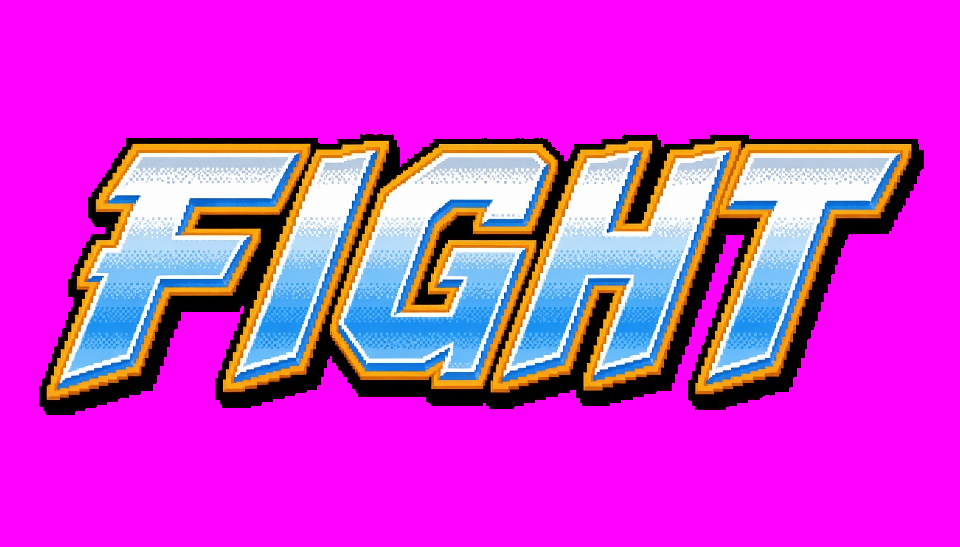
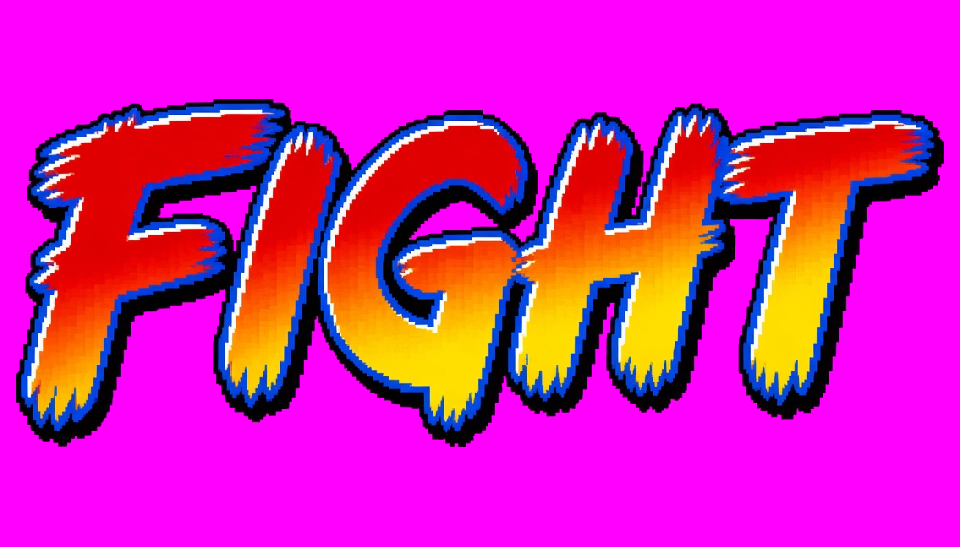
ui

diff --git a/app/src/main/java/com/cc/railshot/ui/GameView.kt b/app/src/main/java/com/cc/railshot/ui/GameView.kt
@@ -657,34 +657,27 @@ class GameView(context: Context) : SurfaceView(context), SurfaceHolder.Callback,
       else blitFit(canvas, bmp, box.left, box.top, box.width(), box.height())
     }
     val dp = sh / 360f
-    val gap = 5f * dp
+    val wordGap = 4f * dp
     val margin = 12f * dp
     val rail = keyedCropped(UiArt.WORD_RAIL)
     val shot = keyedCropped(UiArt.WORD_SHOT)
-    val rivet = titleSlots[2]
-    val hex = titleSlots[3]
-    // AABB inner edges are Rivet's axe / Hex's shield; the V opening is the torsos.
-    val leftClear = rivet.left + rivet.width() * 0.55f + margin
-    val rightClear = hex.left + hex.width() * 0.38f - margin
-    val cx = (leftClear + rightClear) / 2f
+    val ash = titleSlots[0]
+    val maru = titleSlots[5]
+    val leftClear = ash.right + margin
+    val rightClear = maru.left - margin
     val availW = (rightClear - leftClear).coerceAtLeast(1f)
-    val aspect = maxOf(rail.width / rail.height.toFloat(), shot.width / shot.height.toFloat())
-    val pocketH = (titleSlots[2].top + titleSlots[2].height() * 0.18f - titleSlots[0].top).coerceAtLeast(1f)
-    var wordH = availW / aspect
-    val stack = wordH * 2f + gap
-    if (stack > pocketH) wordH = ((pocketH - gap) / 2f).coerceAtLeast(1f)
-    val railW = wordH * (rail.width / rail.height.toFloat())
-    val shotW = wordH * (shot.width / shot.height.toFloat())
-    val top = titleSlots[0].top
-    blitFit(canvas, rail, cx - railW / 2f, top, railW, wordH)
-    blitFit(
-      canvas,
-      shot,
-      cx - shotW / 2f + 3f * dp,
-      top + wordH + gap - 1f * dp,
-      shotW,
-      wordH,
-    )
+    val railAspect = rail.width / rail.height.toFloat()
+    val shotAspect = shot.width / shot.height.toFloat()
+    var wordH = ((availW - wordGap) / (railAspect + shotAspect)).coerceAtLeast(1f)
+    val capH = sh * 0.16f
+    if (wordH > capH) wordH = capH
+    val railW = wordH * railAspect
+    val shotW = wordH * shotAspect
+    val pairW = railW + wordGap + shotW
+    val x = (leftClear + rightClear - pairW) / 2f + 10f * dp
+    val top = ash.top
+    blitFit(canvas, rail, x, top, railW, wordH)
+    blitFit(canvas, shot, x + railW + wordGap, top, shotW, wordH)
     layoutTitleHits(sw, sh)
     val size = sh * 0.042f
     val modeY = sh - sh * 0.105f
@@ -831,12 +824,12 @@ class GameView(context: Context) : SurfaceView(context), SurfaceHolder.Callback,
     blitFill(canvas, opaque(UiArt.SELECT_BG), 0f, 0f, sw, sh)
     val cx = sw * 0.5f
     val dip = cpuLevel.table
-    drawGoldLine(canvas, "TOP SCORES", cx, sh * 0.09f, sh * 0.055f)
+    drawGoldLine(canvas, "TOP SCORES", cx, sh * 0.105f, sh * 0.038f)
     val diff = if (cpuLevel == CpuLevel.EASY) "EASY" else "HARD"
-    drawGoldLine(canvas, diff, cx, sh * 0.148f, sh * 0.036f, CREAM)
-    val rowTop = sh * 0.22f
-    val rowStep = sh * 0.068f
-    val size = sh * 0.036f
+    drawGoldLine(canvas, diff, cx, sh * 0.175f, sh * 0.026f, CREAM)
+    val rowTop = sh * 0.25f
+    val rowStep = sh * 0.070f
+    val size = sh * 0.028f
     var i = 0
     while (i < HighScoreManager.SLOT_COUNT) {
       rankLine.setLength(0)
@@ -866,7 +859,7 @@ class GameView(context: Context) : SurfaceView(context), SurfaceHolder.Callback,
       i++
     }
     if ((System.currentTimeMillis() / 600L) % 2L == 0L) {
-      drawGoldLine(canvas, "1P START", cx, sh * 0.94f, sh * 0.038f)
+      drawGoldLine(canvas, "1P START", cx, sh * 0.95f, sh * 0.032f)
     }
   }
 
@@ -1003,24 +996,35 @@ class GameView(context: Context) : SurfaceView(context), SurfaceHolder.Callback,
     val colT = 14f * dp
     val colW = sw * 0.50f - colL - 12f * dp
     val padH = 8f * dp
-    val padV = 8f * dp
-    val gapT = 6f * dp
+    val padV = 18f * dp
+    val n = Fighter.selectOrder.size
     val rowWTiles = sw - padH * 2f
-    val tile = (rowWTiles - gapT * (Fighter.selectOrder.size - 1)) / Fighter.selectOrder.size
+    val tile = (rowWTiles - 6f * dp * (n - 1)) / n * 0.9f * 1.05f
+    val frameS = (tile * 12f / 1080f).coerceAtLeast(0.5f)
+    val gapT = 6f * frameS + 5f * dp
+    val rowW = n * tile + (n - 1) * gapT
+    val rowL = padH + (rowWTiles - rowW) * 0.5f
     val rowTop = sh - padV - tile
     val colH = (rowTop - colT - 10f * dp).coerceAtLeast(1f)
-    val selectBmp = keyed(UiArt.PLAYER_SELECT)
+    val wordSelect = keyedCropped(UiArt.WORD_SELECT)
+    val wordFighter = keyedCropped(UiArt.WORD_FIGHTER)
+    val wordGap = 2f * dp
     val nameH = 28f * dp
     val flavorH = 15f * dp
     val ctrlH = sh * 0.07f
     val minGap = 10f * dp
-    val slots = 5f
+    val slots = 6f
     val bannerCap = (colH - nameH - flavorH - ctrlH - minGap * slots).coerceAtLeast(24f * dp)
-    val bannerH = min(colW * (selectBmp.height / selectBmp.width.toFloat()), bannerCap)
+    val eachCap = ((bannerCap - wordGap) / 2f).coerceAtLeast(12f * dp)
+    val selectH = min(colW * (wordSelect.height / wordSelect.width.toFloat()), eachCap)
+    val fighterH = min(colW * (wordFighter.height / wordFighter.width.toFloat()), eachCap)
+    val bannerH = selectH + wordGap + fighterH
     val gap = ((colH - bannerH - nameH - flavorH - ctrlH) / slots).coerceAtLeast(0f)
     var y = colT + gap
-    blitFit(canvas, selectBmp, colL, y, colW, bannerH)
-    y += bannerH + gap
+    blitFit(canvas, wordSelect, colL, y, colW, selectH)
+    y += selectH + wordGap
+    blitFit(canvas, wordFighter, colL, y, colW, fighterH)
+    y += fighterH + gap
     highlighted.art().nameSelect?.let { path ->
       val nw = colW * 0.55f
       blitFit(canvas, keyed(path), colL + (colW - nw) / 2f, y, nw, nameH)
@@ -1044,7 +1048,7 @@ class GameView(context: Context) : SurfaceView(context), SurfaceHolder.Callback,
     placeMenuHit(rightArrow, "R", rightCx, labelY, size)
 
     Fighter.selectOrder.forEachIndexed { i, fighter ->
-      val l = padH + i * (tile + gapT)
+      val l = rowL + i * (tile + gapT)
       faceTiles[i].set(l, rowTop, l + tile, rowTop + tile)
       drawFaceTile(canvas, fighter, i, faceTiles[i], dp)
     }
@@ -1682,20 +1686,29 @@ class GameView(context: Context) : SurfaceView(context), SurfaceHolder.Callback,
     val colT = 14f * dp
     val colW = sw * 0.50f - colL - 12f * dp
     val padH = 8f * dp
-    val padV = 8f * dp
-    val gapT = 6f * dp
+    val padV = 18f * dp
+    val n = Fighter.selectOrder.size
     val rowWTiles = sw - padH * 2f
-    val tile = (rowWTiles - gapT * (Fighter.selectOrder.size - 1)) / Fighter.selectOrder.size
+    val tile = (rowWTiles - 6f * dp * (n - 1)) / n * 0.9f * 1.05f
+    val frameS = (tile * 12f / 1080f).coerceAtLeast(0.5f)
+    val gapT = 6f * frameS + 5f * dp
+    val rowW = n * tile + (n - 1) * gapT
+    val rowL = padH + (rowWTiles - rowW) * 0.5f
     val rowTop = sh - padV - tile
     val colH = (rowTop - colT - 10f * dp).coerceAtLeast(1f)
-    val selectBmp = keyed(UiArt.PLAYER_SELECT)
+    val wordSelect = keyedCropped(UiArt.WORD_SELECT)
+    val wordFighter = keyedCropped(UiArt.WORD_FIGHTER)
+    val wordGap = 2f * dp
     val nameH = 28f * dp
     val flavorH = 15f * dp
     val ctrlH = sh * 0.07f
     val minGap = 10f * dp
-    val slots = 5f
+    val slots = 6f
     val bannerCap = (colH - nameH - flavorH - ctrlH - minGap * slots).coerceAtLeast(24f * dp)
-    val bannerH = min(colW * (selectBmp.height / selectBmp.width.toFloat()), bannerCap)
+    val eachCap = ((bannerCap - wordGap) / 2f).coerceAtLeast(12f * dp)
+    val selectH = min(colW * (wordSelect.height / wordSelect.width.toFloat()), eachCap)
+    val fighterH = min(colW * (wordFighter.height / wordFighter.width.toFloat()), eachCap)
+    val bannerH = selectH + wordGap + fighterH
     val gap = ((colH - bannerH - nameH - flavorH - ctrlH) / slots).coerceAtLeast(0f)
     val y = colT + gap + bannerH + gap + nameH + gap + flavorH + gap + 6f * dp
     val size = sh * 0.038f
@@ -1707,7 +1720,7 @@ class GameView(context: Context) : SurfaceView(context), SurfaceHolder.Callback,
     placeMenuHit(selectBtn, "SELECT", selCx, labelY, size)
     placeMenuHit(rightArrow, "R", rightCx, labelY, size)
     Fighter.selectOrder.forEachIndexed { i, _ ->
-      val l = padH + i * (tile + gapT)
+      val l = rowL + i * (tile + gapT)
       faceTiles[i].set(l, rowTop, l + tile, rowTop + tile)
     }
   }

diff --git a/app/src/main/java/com/cc/railshot/ui/BitmapAssets.kt b/app/src/main/java/com/cc/railshot/ui/BitmapAssets.kt
@@ -71,7 +71,8 @@ internal fun chromaKeyMagenta(src: Bitmap, keyHoleBleed: Boolean = false): Bitma
 }
 
 internal fun isKeyMagenta(r: Int, g: Int, b: Int): Boolean {
-  return r >= 240 && b >= 240 && g <= 16
+  if (r >= 240 && b >= 240 && g <= 16) return true
+  return r >= 190 && b >= 180 && g <= 48 && kotlin.math.abs(r - b) <= 48
 }
 
 internal fun isCabinetHoleBleed(r: Int, g: Int, b: Int): Boolean {

diff --git a/app/src/main/java/com/cc/railshot/ui/FighterArt.kt b/app/src/main/java/com/cc/railshot/ui/FighterArt.kt
@@ -45,6 +45,8 @@ object UiArt {
   const val YOU_LOSE = "ui_you_lose.png"
   const val WORD_RAIL = "ui_rail.png"
   const val WORD_SHOT = "ui_shot.png"
+  const val WORD_SELECT = "ui_select.png"
+  const val WORD_FIGHTER = "ui_fighter.png"
   const val BADGE_1P = "ui_1p.png"
   const val BADGE_2P = "ui_2p.png"
   const val BTN_SELECT = "ui_btn_select.png"

diff --git a/playbook.md b/playbook.md
@@ -558,7 +558,7 @@ Arcade pixel word ROUND, fat brush letters, red-to-yellow horizontal gradient, t
 File: `art/ui_round.png`. Show at the start of each set with `art/ui_num_{1,2,3}.png` under it (~1.8s), then `FIGHT`.
 
 ```
-Arcade pixel word FIGHT, icy blue metallic gradient, orange outline, 1994 title, magenta background, 960 wide
+Arcade pixel word FIGHT, fat brush letters, red-to-yellow horizontal gradient, thick blue outline, white highlight, 1994 Neo Geo title like ROUND, no other text, magenta background #FF00FF, 960 wide
 ```
 
 File: `art/ui_fight.png`. Serve sting ~1.2s, then the court waits empty. No typeset TAP TO SERVE. Tap still serves.
@@ -583,10 +583,16 @@ Arcade pixel letters VS, overlapping block capitals V and S (not script, not ita
 File: `art/ui_vs.png`. No drop shadow. Rewrite field to `#FF00FF`.
 
 ```
-Arcade pixel words SELECT FIGHTER, stacked two lines, icy blue metallic gradient, orange outline, 1994 Neo Geo title like FIGHT, magenta #FF00FF
+Arcade pixel word SELECT, fat brush letters, red-to-yellow horizontal gradient, thick blue outline, white highlight, 1994 Neo Geo title like ROUND, magenta #FF00FF, 640x220
 ```
 
-File: `art/ui_player_select.png`.
+File: `art/ui_select.png`.
+
+```
+Arcade pixel word FIGHTER, fat brush letters, red-to-yellow horizontal gradient, thick blue outline, white highlight, 1994 Neo Geo title like ROUND, magenta #FF00FF, 640x220
+```
+
+File: `art/ui_fighter.png`. Stacked on player select under SELECT. Keep `art/ui_player_select.png` unused for revert.
 
 ```
 Pixel digits 0-9 sheet, gold with blue outline, 120x150 each, for TIME and SCORE, magenta background
@@ -602,15 +608,15 @@ Pixel words TARGET, PERFECT, STRAIGHT, TOTAL, blue-to-yellow gradient, outlined,
 
 Two separate screens. Do **not** composite the CPU match under or over the title.
 
-1. **Title.** Composited **in code** on `ui_select_bg.png`: select full-bodies **Ash, Kite, Rivet** on the left (flipped to face center); **Hex, Quill, Maru** on the right, with a little top/side margin. **V stagger:** Ash and Maru highest, Kite and Quill a step lower, Rivet and Hex lowest (and in front). Stacked **RAIL** / **SHOT** (`ui_rail.png`, `ui_shot.png`, 640×220, magenta `#FF00FF`) sit **in the V**, **horizontally centered** between the two groups. Bottom menu, typeset gold arcade font (`fonts/arcade_font.ttf`): top row **ARCADE** **VS** side by side; under them **EASY** or **HARD** (the live dip). No square brackets — these are not submenu entries. Chevrons default to **VS**; the touched item takes them. After **ARCADE** or **VS**, linger **1 second** so the chevrons are visible, then go to character select. Pressing EASY/HARD swaps the dip (and gameplay) and **restarts the 5s demo timer**. Do **not** blit `ui_btn_*.png` / `ui_arrow_left.png` (sprites stay in `art/` unused). Hold **5 seconds** with no press, then go to demo. Do not typeset RAIL or SHOT. Do not tap-anywhere-to-start. Do **not** bake a `ui_title.png` lineup. No difficulty arrows on title.
+1. **Title.** Composited **in code** on `ui_select_bg.png`: select full-bodies **Ash, Kite, Rivet** on the left (flipped to face center); **Hex, Quill, Maru** on the right, with a little top/side margin. **V stagger:** Ash and Maru highest, Kite and Quill a step lower, Rivet and Hex lowest (and in front). **RAIL** and **SHOT** (`ui_rail.png`, `ui_shot.png`, 640×220, magenta `#FF00FF`) sit **on one line at the top**, **horizontally centered** in the gap between Ash and Maru. Bottom menu, typeset gold arcade font (`fonts/arcade_font.ttf`): top row **ARCADE** **VS** side by side; under them **EASY** or **HARD** (the live dip). No square brackets — these are not submenu entries. Chevrons default to **VS**; the touched item takes them. After **ARCADE** or **VS**, linger **1 second** so the chevrons are visible, then go to character select. Pressing EASY/HARD swaps the dip (and gameplay) and **restarts the 5s demo timer**. Do **not** blit `ui_btn_*.png` / `ui_arrow_left.png` (sprites stay in `art/` unused). Hold **5 seconds** with no press, then go to demo. Do not typeset RAIL or SHOT. Do not tap-anywhere-to-start. Do **not** bake a `ui_title.png` lineup. No difficulty arrows on title.
 2. **Demo.** A **CPU vs CPU** match for **10 seconds** (random roster pair each time, mirrors allowed, **HARD** on both rails, no SFX / announcer). Typeset **DEMO** in smaller red letters in the **center of the court**, flashing, no black outline. Tap anywhere → **title** (mode buttons).
-3. **Ranking.** After demo, **TOP SCORES** for the **live title dip** (EASY table or HARD table), 10 rows, ~4 seconds, then back to title. Tap anywhere → **title**. Same card after arcade name entry (or a credit that did not qualify). Blink **1P START**. Do not mix EASY scores onto HARD. Tables live in `arcade_leaderboard` prefs **and** `filesDir/arcade_leaderboard.eeprom` (Blitz EEPROM shape, `commit` + file sync). They survive process death and APK updates. Uninstall still wipes them (`allowBackup=false`, same as Blitz).
+3. **Ranking.** After demo, **TOP SCORES** for the **live title dip** (EASY table or HARD table), 10 rows, ~4 seconds, then back to title. Smaller title / dip / row type with open vertical air. Tap anywhere → **title**. Same card after arcade name entry (or a credit that did not qualify). Blink **1P START**. Do not mix EASY scores onto HARD. Tables live in `arcade_leaderboard` prefs **and** `filesDir/arcade_leaderboard.eeprom` (Blitz EEPROM shape, `commit` + file sync). They survive process death and APK updates. Uninstall still wipes them (`allowBackup=false`, same as Blitz).
 
 **Select idle.** If nobody touches the screen for **45 seconds** while picking, return to **title** (cabinet that never got a confirm). Any tap on select resets the timer. After both fighters are locked (linger into VS), do **not** idle-kick.
 
 ## Character select layout
 
-4:3 letterboxed screen. Use pieces **A** (full-body), **B** (face), **F** (name), plus `ui_player_select.png`. Overlay cursor, arrows, and SELECT in code. Wallpaper has no portraits and no UI.
+4:3 letterboxed screen. Use pieces **A** (full-body), **B** (face), **F** (name), plus `ui_select.png` / `ui_fighter.png`. Overlay cursor, arrows, and SELECT in code. Wallpaper has no portraits and no UI.
 
 Wallpaper only (`art/ui_select_bg.png`): quiet dark teal stage, no portraits, no UI, not busy.
 
@@ -647,7 +653,7 @@ Same flow as a 90s arcade vs-select (Flip Shot layout language, original roster)
 3. **Confirm with SELECT.** The SELECT button (between the arrows, left stack) locks the highlighted fighter. **VS mode:** first press = **first fighter** (left court, `vs_left`, P1 clothes); second press = **second fighter** (right court, `vs_right`, 2P clothes). Same fighter twice is a legal mirror match. **Arcade mode** (from the title **ARCADE** button): one SELECT locks 1P only; first CPU is the **next fighter** after 1P in select/title order (**Ash, Kite, Rivet, Hex, Quill, Maru**; Maru wraps to Ash). No 2P cursor. Linger into VS. **Win** → next VS vs the next fighter in that order (skip 1P). Skill in the TIME well **carries** between those fights. **Beat every other fighter** or **lose** → name entry (tap left/right to spin A–Z, tap bottom to lock each of three letters) if the credit qualifies on the current dip, then ranking. Title EASY/HARD applies to the whole arcade run and picks the ranking table.
 4. **Full-body on the right.** Piece **A** for the **currently highlighted** tile is drawn on the **right**, **almost the full 4:3 height** (`FillHeight`, no crop-zoom of the face), with a **small margin** top and bottom so it does not clip the screen edge. A must be the **left-facing** select pose so they look toward the left stack. Missing **A** is an empty placeholder. Switching left/right updates this portrait immediately. Do not keep showing the already-locked first fighter while browsing for the second.
 5. **Cursor badges.** While picking the first fighter, show **1P** on the highlighted tile. After the first lock, **1P** stays on that tile; **2P** rides the cursor until the second lock. **Arcade:** **1P** only — never **2P**. Tile frames: drawn arcade rectangles (idle grey; blink gold when that tile is the cursor). Keep `ui_face_frame_*.png` on disk unused.
-6. **Left stack.** Top to bottom: large `ui_player_select.png` (**SELECT FIGHTER** title), then `{name}_name_select.png`, then one **typeset flavor line** (`FighterKit.flavor`) for the highlighted fighter, then typeset gold **L** **SELECT** **R** with chevrons on the last touched control. All on the **left**. Do not typeset SELECT FIGHTER or the fighter name. Do not bake the flavor into piece A.
+6. **Left stack.** Top to bottom: `ui_select.png` then `ui_fighter.png`, then `{name}_name_select.png`, then one **typeset flavor line** (`FighterKit.flavor`) for the highlighted fighter, then typeset gold **L** **SELECT** **R** with chevrons on the last touched control. All on the **left**. Do not typeset SELECT FIGHTER or the fighter name. Do not bake the flavor into piece A.
 7. **Arcade type, not chrome buttons.** Menu labels use the yellow Blitz arcade font + chevrons. Cursor badges stay `ui_1p.png` / `ui_2p.png`. Button/arrow PNGs stay in `art/` for revert.
 8. **After both are selected:** freeze input, linger **1.5 seconds**, then go to the **VS screen**. Do not skip the linger.
 
@@ -709,7 +715,7 @@ Round win in-court is the `YOU WIN` / `YOU LOSE` overlay when a **set** is taken
 - Live chasm logs (`maru/maru_court_log.png`) on Maru’s court — three mixed sizes drift and weave the water
 - `ROUND` / `FIGHT` / `YOU WIN` / `YOU LOSE` banners
 - Select cursor (`ui_1p.png` / `ui_2p.png`); typeset gold **L** **SELECT** **R** with chevrons
-- Title typeset **ARCADE** **VS** on one row, **EASY** or **HARD** under them (arcade font, yellow, chevrons on touch, no square brackets); stacked **RAIL** / **SHOT** (`ui_rail.png` / `ui_shot.png`); arcade is a roster ladder (skip 1P)
+- Title typeset **ARCADE** **VS** on one row, **EASY** or **HARD** under them (arcade font, yellow, chevrons on touch, no square brackets); **RAIL** **SHOT** on one line at the top (`ui_rail.png` / `ui_shot.png`); arcade is a roster ladder (skip 1P)
 - Title difficulty swaps EASY↔HARD; VS typeset **START** begins the match; result typeset **CONTINUE**
 - Attract ranking **TOP SCORES** (EASY or HARD table) after demo; arcade name entry then the same card
 - Select flavor line under the name sprite (`FighterKit`)
